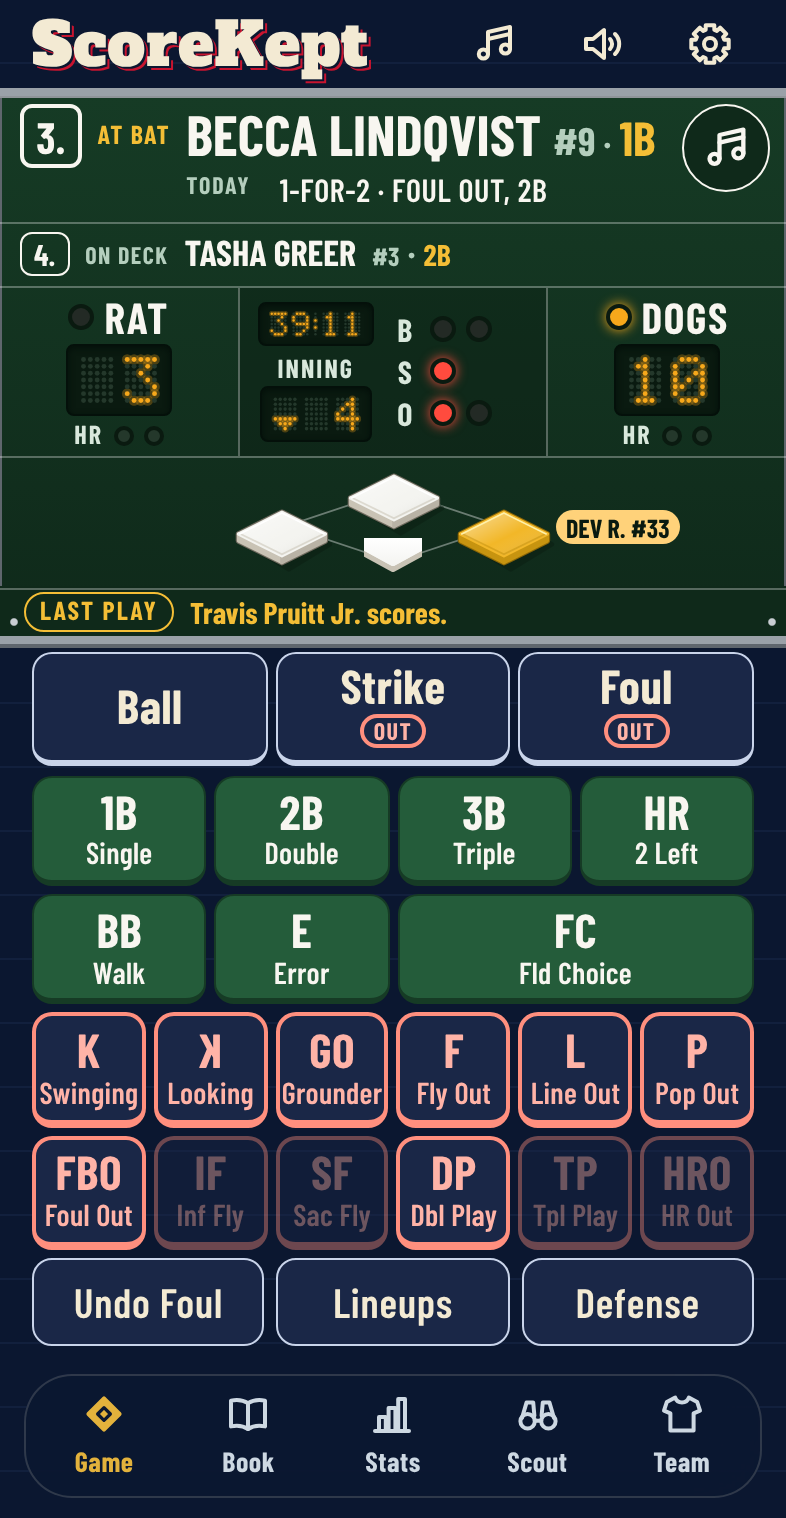
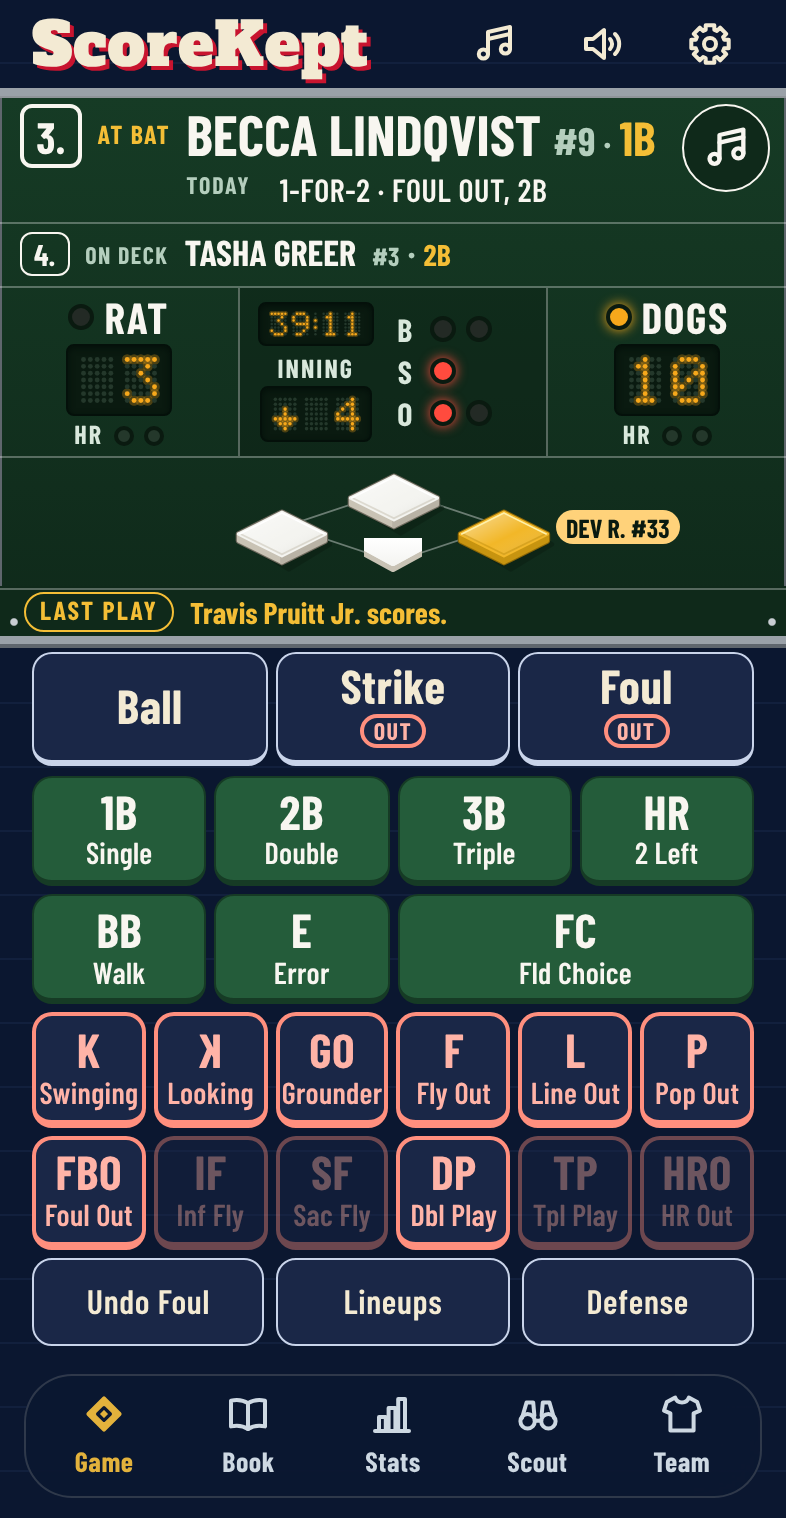
Buttons: dimmed keys never look like tools, quieter tool keys, crisp wordmark shadow, bigger inning arrow
Claude-Session: https://claude.ai/code/session_019GkS5eEiAzmEB3GrHC5aVf

diff --git a/src/content/help.ts b/src/content/help.ts
@@ -59,7 +59,7 @@ export const HELP: HelpSection[] = [
   {
     title: 'The Scoring Buttons',
     paragraphs: [
-      'The solid green buttons are for a batter who reaches base. The cream buttons outlined in red pen are for a batter who’s out. Ball, Strike, and Foul are cream with a navy outline, and Undo, Lineups, and Defense are the plain ones under them. A pressed scoring key sinks into its bottom edge. Every key keeps its place. Infield Fly, Sac Fly, Double Play, Triple Play, and HR Out are dimmed until they can happen (Infield Fly with runners on first and second and fewer than two outs, for example); tap a dimmed one to hear why. The Last Play strip at the bottom of the board says what you just scored, and Undo names what it will take back. When the next pitch would end the at-bat, its button says Out or Walk. Each shows the code you’d write in the book over a plain word: GO over Grounder, K over Swinging. Some are dimmed when they can’t happen, like Sac Fly with nobody on third, or HRO before your team is over its home-run limit; tap one to hear why.',
+      'The solid green buttons are for a batter who reaches base. The cream buttons outlined in red pen are for a batter who’s out. Ball, Strike, and Foul are cream with a navy outline, and Undo, Lineups, and Defense are the plain ones under them. A pressed scoring key sinks into its bottom edge. Every key keeps its place. Infield Fly, Sac Fly, Double Play, Triple Play, and HR Out are dimmed until they can happen (Infield Fly with runners on first and second and fewer than two outs, for example); tap a dimmed one to hear why With Increase Contrast on (Settings, Accessibility, Display & Text Size), a dimmed key is plain gray instead of faded. The Last Play strip at the bottom of the board says what you just scored, and Undo names what it will take back. When the next pitch would end the at-bat, its button says Out or Walk. Each shows the code you’d write in the book over a plain word: GO over Grounder, K over Swinging. Some are dimmed when they can’t happen, like Sac Fly with nobody on third, or HRO before your team is over its home-run limit; tap one to hear why.',
       'The top of the scoreboard shows the batter: their spot in the order (3.), AT BAT, their name, then their jersey number and position (#9 · 1B). Under it is one line: SEASON (.329 AVG · 2 HR · 5 RBI) before their first trip to the plate today, then TODAY (hits for at-bats and each trip, like 1-for-2 · Foul Out, 2B). On Deck is the banner’s last row. The round music button plays the batter’s walk-up. The inning’s arrow is in the bulbs: up for the top, down for the bottom. Settings, Batter’s Name, can set the first name larger.',
       'The Last Play strip along the bottom of the scoreboard says what you just scored, with runs and RBI in gold. A long play slides across so you can read it all.',
       'Scroll down on the Book, Stats, Scout, or Team and the tab bar tucks into a circle. While a game is on, a little scoreboard sits beside it; tap it to go back to the game. Tap the circle, or scroll up, for every tab.',

diff --git a/tests/e2e/game.spec.ts b/tests/e2e/game.spec.ts
@@ -634,6 +634,35 @@ test.describe('the button system', () => {
     });
   }
 
+  for (const contrast of ['no-preference', 'more'] as const) {
+    for (const colorScheme of ['light', 'dark'] as const) {
+      test(`a dimmed key never looks like a tool button: ${colorScheme}, Increase Contrast ${contrast === 'more' ? 'on' : 'off'}`, async ({ page }) => {
+        await page.emulateMedia({ colorScheme, contrast });
+        await freshApp(page);
+        await startGame(page);
+        const look = (name: string) =>
+          key(page, name).evaluate((el) => {
+            const c = getComputedStyle(el);
+            return { opacity: c.opacity, bg: c.backgroundColor, line: c.borderTopColor, ink: c.color };
+          });
+        const sf = await look('Sac Fly');
+        const tool = await look('Lineups');
+        const out = await look('Fly Out');
+        expect(sf).not.toEqual(tool);
+        if (contrast === 'more') {
+          // A muted fill with no visible border, unlike every role.
+          expect(sf.opacity).toBe('1');
+          expect(sf.line).toBe(sf.bg);
+          expect(sf.bg).not.toBe(tool.bg);
+        } else {
+          // The same red-pen out key, faded.
+          expect(sf.opacity).toBe('0.4');
+          expect({ bg: sf.bg, line: sf.line, ink: sf.ink }).toEqual({ bg: out.bg, line: out.line, ink: out.ink });
+        }
+      });
+    }
+  }
+
   for (const reducedMotion of ['no-preference', 'reduce'] as const) {
     test(`press: a lipped key drops 2 points into its lip${reducedMotion === 'reduce' ? ', except with Reduce Motion' : ''}`, async ({ page }) => {
       await page.emulateMedia({ reducedMotion });

diff --git a/src/styles/tokens.css b/src/styles/tokens.css
@@ -76,10 +76,9 @@
   --sk-radius-pill: 999px;
   --gutter: 16px;
 
-  /* Jersey-style title shadow: a thin gap of paper, then the shadow. */
-  /* Whole points, so the wordmark's jersey shadow draws crisp, never soft (Master Spec, Nov 15). */
-  --brand-gap: max(1px, round(0.03em, 1px));
-  --brand-drop: round(0.075em, 1px);
+  /* The wordmark's jersey shadow: one solid offset in whole points, no blur and no paper gap, so it
+     draws crisp (Nov 15: the 1-point gap left a 1-point red sliver that read as soft). */
+  --brand-drop: max(2px, round(0.07em, 1px));
 }
 
 /* 1b. ScoreKept master palette (Steve's Master Spec, Nov 14). Locked values; the named
@@ -182,6 +181,8 @@
   --role-red-line: var(--sk-clay-out);
   --role-red-ink: var(--sk-clay-ink);
   --role-dim-ink: #4f586c;
+  /* Increase Contrast's dimmed key: a muted fill, no border or lip, so it never looks like a role. */
+  --role-dim-fill: #dedad0;
   /* Header pill turned on (the Game header's speaker): navy with gold by day. */
   --pill-on-bg: #13213d;
   --pill-on-ink: #f2c14e;
@@ -283,6 +284,7 @@
     --role-red-line: #ff8f7e;
     --role-red-ink: #ffb3a7;
     --role-dim-ink: #b9c3d6;
+    --role-dim-fill: #2c3346;
     /* ...and gold with navy by night, like a lit scoreboard key. */
     --pill-on-bg: #f2c14e;
     --pill-on-ink: #13213d;

diff --git a/src/ui/game/bulbs.ts b/src/ui/game/bulbs.ts
@@ -25,10 +25,10 @@ const GLYPHS: Record<string, string[]> = {
   A: ['01110', '10001', '10001', '11111', '10001', '10001', '10001'],
   S: ['01111', '10000', '10000', '01110', '00001', '00001', '11110'],
   T: ['11111', '00100', '00100', '00100', '00100', '00100', '00100'],
-  // Top of the inning: an arrow pointing up, high in the cell.
-  '▲': ['00100', '01110', '11111', '00000', '00000', '00000', '00000'],
-  // Bottom of the inning: pointing down, low in the cell.
-  '▼': ['00000', '00000', '00000', '00000', '11111', '01110', '00100'],
+  // Top of the inning: an arrow with a stem, pointing up, high in the cell (one size up, Nov 15).
+  '▲': ['00100', '01110', '11111', '00100', '00100', '00000', '00000'],
+  // Bottom of the inning: the same arrow pointing down, low in the cell.
+  '▼': ['00000', '00000', '00100', '00100', '11111', '01110', '00100'],
   ':': ['0', '0', '1', '0', '1', '0', '0'],
   ' ': ['00000', '00000', '00000', '00000', '00000', '00000', '00000'],
 };

diff --git a/src/styles/app.css b/src/styles/app.css
@@ -99,7 +99,8 @@ html.fits body {
   min-height: 44px;
   min-width: 44px;
   padding: 6px 12px;
-  border: 1.5px solid var(--role-navy-line);
+  /* Tools: a thin 1-point line, quieter than the scoring keys' borders. */
+  border: 1px solid var(--role-navy-line);
   border-radius: var(--sk-radius-control);
   background-color: var(--role-paper);
   color: var(--role-navy-ink);
@@ -203,10 +204,12 @@ html.fits body {
     border-bottom-width: calc(2.5px + var(--lip));
   }
 
+  /* A dimmed key with Increase Contrast: a muted fill with no visible border or lip (the border keeps
+     its width in the fill's color, so nothing moves), never a look another role has. */
   .sk-key[aria-disabled='true'] {
     opacity: 1;
-    border-color: var(--role-dim-ink);
-    background-color: transparent;
+    border-color: var(--role-dim-fill);
+    background-color: var(--role-dim-fill);
     color: var(--role-dim-ink);
   }
 }

diff --git a/src/ui/game/game.css b/src/ui/game/game.css
@@ -1578,8 +1578,9 @@
 .gm-strip-key {
   font-family: var(--font-board);
   /* Title Case like every key below the board (Master Spec, Nov 15); Undo uses the play's code to
-     fit ("Undo 1B"). */
-  font-size: calc(min(calc(19 * var(--u)), 5.4cqi) * var(--grow, 1));
+     fit ("Undo 1B"). About 17 points and a 1-point line, so tools stay quieter than the scoring
+     keys and don't grow with them (Nov 15). */
+  font-size: min(calc(17 * var(--u)), 4.8cqi);
   font-weight: 600;
   letter-spacing: 0.02em;
 }
@@ -2026,8 +2027,8 @@ html.gm-tight .gm-last {
 
   .gm-menu-key[aria-disabled='true'] {
     opacity: 1;
-    border-color: var(--role-dim-ink);
-    background-color: var(--role-paper);
+    border-color: var(--role-dim-fill);
+    background-color: var(--role-dim-fill);
     color: var(--role-dim-ink);
   }
 }

diff --git a/src/content/whats-new.ts b/src/content/whats-new.ts
@@ -10,6 +10,13 @@ export interface WhatsNewEntry {
 
 export const WHATS_NEW: WhatsNewEntry[] = [
   {
+    version: '2026.11.15-8',
+    headline: 'Sharper Lines',
+    lines: [
+      'A play that can’t happen yet now looks it: a faded out key, or with Increase Contrast on, a plain gray key that can’t be mistaken for Undo or Lineups. Those three step back a little, the ScoreKept name has a crisp shadow, and the inning arrow got bigger.',
+    ],
+  },
+  {
     version: '2026.11.15-7',
     headline: 'New Keys at the Scorer’s Table',
     lines: [

diff --git a/src/styles/base.css b/src/styles/base.css
@@ -98,9 +98,7 @@ body,
   font-weight: 400;
   letter-spacing: 0.01em;
   color: var(--brand-ink);
-  text-shadow:
-    var(--brand-gap) var(--brand-gap) 0 var(--paper),
-    var(--brand-drop) var(--brand-drop) 0 var(--brand-shadow);
+  text-shadow: var(--brand-drop) var(--brand-drop) 0 var(--brand-shadow);
 }
 
 /* Section labels: navy, underlined in red. */

diff --git a/src/version.ts b/src/version.ts
@@ -1,2 +1,2 @@
 // Bump on every push that changes the app. Format: YYYY.MM.DD-N
-export const APP_VERSION = '2026.11.15-7';
+export const APP_VERSION = '2026.11.15-8';

diff --git a/docs/MASTER_SPEC.md b/docs/MASTER_SPEC.md
@@ -517,6 +517,7 @@ Grouped; each item opens its own screen; ✕ or Done returns to Settings:
 - **Rule-gated running (2026.11.14-12, Steve's review: "stealing bases and wild pitches don't exist" in slowpitch):** three optional rule fields, missing = off, so every built-in (slowpitch) rule set has them off: `stealing` (SB, CS, PO in the menu), `wildPitchAdvance` (WP, PB), `leftEarlyOut` (the between-pitch Out reads Left Early and records `how: 'LE'`, "is out for leaving early"). Courtesy runners follow `courtesyPerInning`. Edited in the rules under **Running Between Pitches** (Stealing Allowed, Runners Advance on Wild Pitches, Out for Leaving Early). `sameRules` treats missing and off as the same. Slowpitch between pitches: Out (or Left Early), CR, More. **Ground outs** move forced runners up one base, written into the play's `adv` when it's recorded (only with fewer than two outs), so saved games replay as scored. **Book:** the game menu says "Live" (not "In Progress"); each batter's name stays on one line with "#21 · 1B" (jersey number and starting position, either collapsing when missing) on a small line under it; the ink button reads "Ink: Pencil".
 - **Steve's PSD pass (2026.11.14-13):** **Banner:** a bigger spot badge; AT BAT in gold (`--sk-gold-ink`) stacked over the jersey number between the badge and the name; the name at 33 (`.gm-name-line`, fit to one line) with the position right after it; the stat lines lined up under the name (`.gm-who` is a three-column grid); ♪ and text closer to the edges (8 and 10 points). On Deck the same way: [4] [ON DECK / #3] NAME POS (one line on the SE). The top corner rivets are gone; the bottom two stay. **Pad:** Ball, Strike, and Foul as big as the codes, in caps, with the OUT or WALK tag under the word (its space always kept; beside the word on the SE); Undo, Lineups, and Defense at the codes' size, in caps; Undo names runner moves short (SB, WP, PB, CS, PO, LE, −1, Out, Score, Adv) and a courtesy runner CR. **Home plate:** a true pentagon (flat edge toward second, short straight sides, point toward the catcher) in two clipped layers with the rubber lip under it, its point on the base paths' corner; the diamond is taller (`--rise` 0.6 of a bag's height, 0.52 compact, 0.46 on the SE) and the bases a touch smaller, so the plate sits clear below second. The compact board now runs up to 900 points tall (every iPhone through the 16 Pro); the SE also hides the INNING caption (the ▲▼ arrows stay). **Sounds:** the umpire no longer calls balls, strikes, and fouls; only ball four and strike three. **New Game:** their batting order is numbered rows again (10 to start, + Add Batter, blank rows skipped, all blank = Batter 1, Batter 2, …), and pasting a list into a row fills it and the rows below, dropping "1." numbering.
 - **The button system (2026.11.15-7, Steve's spec and his six calls):** two corner tokens (`--sk-radius-control` 10 points for buttons, fields, menus, rows, cards; `--sk-radius-pill` for badges, switches, icon buttons, swatches; `--radius` is now 10). Four roles: hits solid green with a 2-point lip; outs cream (`--role-paper`) with one red-pen border (`--role-red-line`) and red-ink words; count keys cream with a thin navy border, the ending pitch shown by a red OUT or green WALK pill (`gm-ends-out`, `gm-ends-walk`); tools cream with a thin navy border and no lip, a press only darkens them. Primary stays solid navy (gold in Dark Mode). A lipped key drops 2 points into its lip on press; Reduce Motion darkens instead. Dimmed keys stay in place, solid at 40%, with the reason in `aria-description`; the Nov 14 chalk-outline slots are gone (no dashed borders anywhere). Increase Contrast thickens borders and draws dimmed keys plainly in `--role-dim-ink`. Dark Mode: green stays, cream turns dark slate (`#1a2747`), red ink lightens; every role passes 7:1. The base-tap menu's keys follow the same roles. Sheets that confirm changes (Edit Player, New Player, Add Team, Discord, the schedule and dues editors) show Cancel at the top left and Done at the top right in place of the ✕; Game Replay closes with the ✕. Mockup: https://claude.ai/artifact/VzUuoD5yezpiQBSn22uvQd.
+- **Refinements (2026.11.15-8, from Steve's screenshots):** Steve's iPhone has Increase Contrast on, where dimmed keys had been drawn as plain gray-navy outlines that read as tools; now a dimmed key there is a muted fill (`--role-dim-fill`, light `#dedad0`, dark `#2c3346`) with its border in the same color (no visible border or lip, nothing moves), and without Increase Contrast it's its own role at 40%. Undo, Lineups, and Defense are about 17 points (no longer growing with the scoring keys) and every tool has a 1-point line. The wordmark's jersey shadow is one solid offset (`--brand-drop`, at least 2 points), with the cream gap dropped because it left a 1-point red sliver that read as soft. The inning's bulb arrow has a stem (five rows). The walk-up button was already 44 by 44 points.
 - **Board notes (2026.11.15-7, Steve's markup):** the team-color stripe beside a team's name on the board is gone (the lit at-bat lamp marks who's batting); the walk-up button shows the Organ's music icon at 26 points; one stat line under the batter (SEASON with AVG and the counting stats before the first trip, TODAY after), so the name grows (38 points at full size, 31 on an iPhone 16 Home Screen app, 28 on the SE) with the number and position (20 and 24); the inning's arrow is a bulb cell in the inning housing (`BulbText('^00')`: ▲ high in the cell for the top, ▼ low for the bottom, blank when the game's over).
 - **Edit Team refresh (2026.11.15-4 and -5, Steve's merged sizing spec):** the red ✕ beside the title (44 points) is the one way out, with no bottom Done bar: everything saves as it changes (-4 tried a top-right Done; -5 went back to the first build's ✕ rule). The score bug is pinned at the top while the form scrolls under it. No "Team" header repeating the title. Team Name and Short Name share a row (about 70/30, stacking when big text needs the room). Spacing: labels 4 points above their fields, about 16 between fields, about 24 before a section. The colors are a 6 × 3 grid of 44-point targets, each a 40-point circle with the picked one ringed and named in the label ("Primary: Navy"), edges lined up with the fields; narrower screens wrap to fewer columns, never a sideways scroll. The same grid is in setup's Pick Your Colors.
 - **Team colors like the first build (2026.11.14-14, Steve's v1 screenshots):** Edit Team and setup's Pick Your Colors share `scorebugPreview`: a broadcast score bug on the scoreboard green (your badge in your colors with ▸ and 5 runs over OPP with 3, ▲6, bases with first and third on, one out lamp lit), live as the name and colors change. Under it the Primary and Secondary circles (labeled with the color picked, "Primary: Navy") and Big League Colors as one menu ("Pick a city look (optional)"), in both places; the 30-row list is gone.

diff --git a/CLAUDE.md b/CLAUDE.md
@@ -81,9 +81,9 @@ These rules applied to the first build and still apply.
 - **One principle: "nothing the real object doesn't have."** The scoreboard is the one detailed piece (rivets, bulbs, lamps). Controls are clean and matte, with crisp borders.
 - **The button system** (Steve, Nov 15). Every button looks like it belongs to a scorebook. Two shapes, four roles, one press:
   - **Shapes, as tokens:** `--sk-radius-control` (10 points) for every rectangular button, field, menu, row, and card; `--sk-radius-pill` (fully round) for badges (OUT, WALK, runner tags), switches, icon buttons (✕, ♪), and swatches. Drawn real objects (the scoreboard, bases, Book marks, the player) keep their own shapes. No one-off radii.
-  - **Roles:** (a) **Hits / reaches** (1B, 2B, 3B, HR, BB, E, FC): solid dugout green, cream words, a bottom lip. (b) **Outs** (K, ꓘ, GO, F, L, P, FBO, IF, SF, DP, TP, HRO): cream paper with one red-pen border and red-ink words, a lip; no inner ring, no tint. (c) **Count** (Ball, Strike, Foul): cream, thin navy border, navy words, a lip; the OUT and WALK pills say how a pitch ends. (d) **Tools** (Undo, Lineups, Defense, Share, and every other secondary action): cream, thin navy border, navy words, no lip, smaller words; no gray anywhere. The one primary action on a sheet is solid navy (gold in Dark Mode) with a lip. Role tokens: `--role-paper`, `--role-navy-line`, `--role-navy-ink`, `--role-red-line`, `--role-red-ink`, `--role-dim-ink`.
+  - **Roles:** (a) **Hits / reaches** (1B, 2B, 3B, HR, BB, E, FC): solid dugout green, cream words, a bottom lip. (b) **Outs** (K, ꓘ, GO, F, L, P, FBO, IF, SF, DP, TP, HRO): cream paper with one red-pen border and red-ink words, a lip; no inner ring, no tint. (c) **Count** (Ball, Strike, Foul): cream, thin navy border, navy words, a lip; the OUT and WALK pills say how a pitch ends. (d) **Tools** (Undo, Lineups, Defense, Share, and every other secondary action): cream, a 1-point navy line, navy words (Undo, Lineups, and Defense about 17 points, not growing with the scoring keys), no lip; no gray anywhere. The one primary action on a sheet is solid navy (gold in Dark Mode) with a lip. Role tokens: `--role-paper`, `--role-navy-line`, `--role-navy-ink`, `--role-red-line`, `--role-red-ink`, `--role-dim-ink`.
   - **Press:** a lipped key drops 2 points into its lip and the lip goes flat; a tool darkens. Reduce Motion: no movement, a slightly darker color. Nothing that isn't pressable gets a lip, shadow, or 3D edge.
-  - **Dimmed:** the same key in the same spot, solid, at 40%, `aria-disabled`, with the reason in `aria-description` ("Sac Fly, dimmed: needs a runner on third with fewer than two outs"). No dashed outlines, no hidden keys. Increase Contrast: thicker borders, and dimmed keys drawn plainly in `--role-dim-ink` instead of faded.
+  - **Dimmed:** the same key in the same spot, solid, at 40%, `aria-disabled`, with the reason in `aria-description` ("Sac Fly, dimmed: needs a runner on third with fewer than two outs"). No dashed outlines, no hidden keys. Increase Contrast: thicker borders, and a dimmed key becomes a muted fill (`--role-dim-fill`) with no visible border or lip and `--role-dim-ink` words, so it never looks like a tool or any other role (Steve has Increase Contrast on, Nov 15).
   - **Dark Mode:** green stays green; red ink turns lighter red; cream turns dark slate with light words. Contrast stays 7:1 in both appearances.
   - **Sheets:** a sheet that confirms changes has Cancel at the top left and Done at the top right in place of the ✕; a question with a list of answers (an iPhone alert) keeps its answers and Cancel in the body.
   - **Tests:** every key has one role and one of the two radii, tools have no lip and the rest do, nothing is dashed, a lipped key moves 2 points on press and doesn't with Reduce Motion, dimmed keys keep their place, contrast and 44-point taps pass, and the Game screen still fits 393 x 759 with 12 points to spare.
@@ -114,6 +114,7 @@ These rules applied to the first build and still apply.
 
 Newest first. One line each, with the date and where the detail lives. Later sessions follow these unless Steve changes one; a change gets its own new line.
 
+- **Nov 15 (refinements):** a dimmed key looks like its own role faded, and with Increase Contrast a muted fill with no border, never like a tool (a test checks both); tools are about 17 points with a 1-point line; the wordmark's shadow is one solid offset with no paper gap; the inning arrow has a stem (one size up); the walk-up button stays 44 points (it already was).
 - **Nov 15 (board notes):** no team-color stripe beside either team's name on the board (the lit at-bat lamp marks the batting team); the walk-up button uses the Organ's music icon at the header icons' size; one stat line under the batter (SEASON before the first trip, TODAY after), so the name, number, and position get bigger; the inning's top/bottom arrow is drawn in LED bulbs inside the inning housing.
 - **Nov 15 (button system):** Steve's six calls: outs are cream with a red-pen border (replaces pick E's pale clay); tool keys have no lip (house style updated); contrast stays 7:1 in both appearances; cream keys turn dark slate in Dark Mode (replaces "keys the same in both"); plays that can't happen are the same key dimmed at 40% (replaces the Nov 14 chalk-outline slots); sheets that confirm changes put Cancel and Done in the top bar instead of the ✕. Details in House style, the button system.
 

diff --git a/docs/LESSONS.md b/docs/LESSONS.md
@@ -91,3 +91,4 @@ Each of these cost real time the first time. Read before working on the related 
 110. **Playing through Silent pauses other apps' music.** Setting `navigator.audioSession.type = 'playback'` makes web audio ignore the Ring/Silent switch, but it also takes over audio from Music or Spotify. Ask for it only when a sound really plays, never in the first-tap unlock that runs on every touch, or tapping a tab would stop the scorer's playlist.
 111. **The repo is public, so anything in it is handed out.** Sounds, pictures, and fonts need a license that allows sharing the file itself, not just using it in a project. Ask where a file came from before it goes in; Stadium Sounds went in first and came back out (Nov 15).
 112. **Measure a screenshot in points, not pixels.** An iPhone screenshot is three pixels per point, and one passed through a chat or a markup app is often scaled again (Steve's Edit Team shot was 923 pixels wide: 2.35 per point). Reviewers read the 44-point ✕ and fields as 65 points that way. Divide by the screenshot's width over 393 before calling anything too big; then fix the layout points, which are usually right.
+113. **Check Steve's accessibility settings before calling a style wrong.** His iPhone has Increase Contrast on, so reviews of his screenshots see the `prefers-contrast: more` styles, not the defaults. The dimmed keys looked like a fifth style for exactly that reason. Test both (`page.emulateMedia({ contrast: 'more' })`) for anything that changes with it.
